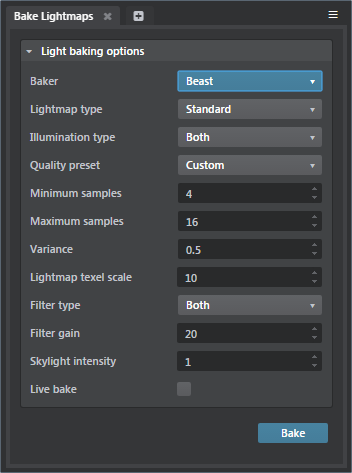
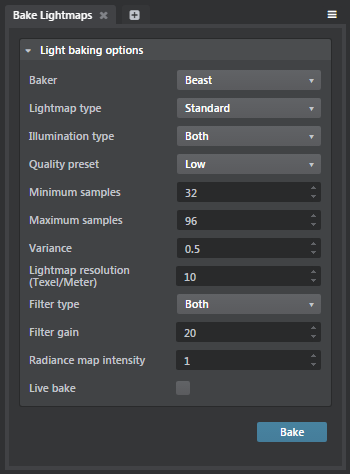
Updated the docs for  the Stingray and  Beast baker options and add new screenshots (GAME-17566)

diff --git a/source/stingray_help/lighting_rendering/lighting/light_baking/bake_with_beast.md b/source/stingray_help/lighting_rendering/lighting/light_baking/bake_with_beast.md
@@ -1,8 +1,10 @@
 # About baking with Beast
 
+![UPDATED](../../../images/updated.png)
+
 Autodesk Beast is a rendering SDK that simulates lighting and global illumination for games. Stingray comes with a simple, ready-to-use integration of the main lightmap baking features of Beast.
 
-> ![](../../../images/icon_CreativeMarket.png) To see some simple demonstrations of the ways you can set up a Stingray level to use Beast, download the 'Beast Examples' project from <a href="http://www.autodesk.com/stingray-creativemarket-examples" target="blank">Creative Market.</a>
+> To see some simple demonstrations of the ways you can set up a Stingray level to use Beast, download the 'Beast Examples' project from the **Online Examples** tab in the ~{ Project Manager }~.
 
 ![Beast example project](../../../images/example_project_beast.jpg)
 
@@ -28,9 +30,9 @@ You can choose what kinds of illumination you want to include in your lightmaps:
 
 -	both direct *and* indirect illumination, combined together in the same texture.
 
-A common approach is to bake only the indirect light, and to let the direct light be applied by the real-time renderer in the game. If you choose this approach, you will probably want to leave the **Baked** option unchecked for each of the lights in your scene, so that they continue to shine direct light and make dynamic shadows at runtime.
+A common approach is to bake only the indirect light, and to let the direct light be applied by the real-time renderer in the game. If you choose this approach, you will probably want to leave the **Baking** option set to "Indirect" for each of the lights in your scene, so that they continue to shine direct light and make dynamic shadows at runtime.
 
-You may, however, want to bake direct illumination in order to get the direct shadows baked into your lightmaps. If you decide to bake the direct illumination, you will need to check the **Baked** option for the lights in your scene. This includes the direct light and shadow in the bake, and avoids counting the direct illumination from the light twice: once as part of the baked lightmap, and once again by the real-time renderer on top of the lightmap.
+You may, however, want to bake direct illumination in order to get the direct shadows baked into your lightmaps. If you decide to bake the direct illumination, you will need to set the **Baking** option to "Direct & Indirect" for the lights in your scene. This includes the direct light and shadow in the bake, and avoids counting the direct illumination from the light twice: once as part of the baked lightmap, and once again by the real-time renderer on top of the lightmap.
 
 ## How does it bake?
 
@@ -54,13 +56,8 @@ You can use the settings in the **Bake Lightmaps** window to control the way Bea
 <dt>Illumination type</dt>
 <dd>Determines what kind of illumination is baked into the lightmaps. See [Standard vs. directional lightmaps] above.</dd>
 
-<dt>Total sample passes</dt>
-<dd>Sets the maximum number of passes the light baker will make.
-
-Increasing this value may improve the quality of the final results, if the number of passes is not high enough to converge on a high-quality result. However, it also makes the full baking session take longer to complete.</dd>
-
 <dt>Quality preset</dt>
-<dd>Select one of these presets to quickly adjust the settings below to produce low, medium or high quality lightmaps. These presets can give you a good starting point ifyou're not sure what values to use for the quality settings below.</dd>
+<dd>Select one of these presets to quickly adjust the settings below to produce low, medium or high quality lightmaps. These presets can give you a good starting point if you're not sure what values to use for the quality settings below.</dd>
 
 <dt>Minimum samples</dt>
 <dd>Beast uses adaptive sampling to determine how many samples it should use for each shaded texel. This setting determines the lowest number of samples that Beast will use for any texel. Increasing this value may increase quality, but may also increase baking time.</dd>
@@ -73,10 +70,10 @@ Increasing this value may improve the quality of the final results, if the numbe
 
 Lowering the value of this setting usually increases the number of samples made per texel, which may increase the quality of the result, but also increases baking time.</dd>
 
-<dt>Lightmap texel scale</dt>
+<dt>Lightmap resolution (Texel/Meter)</dt>
 <dd>Controls the size of the lightmaps produced by the baker.
 
-This value multiplies the texture resolution for each target's lightmap. For example, if a target requires a 32x32 texture when the scale is set to 1, it will require a 64x64 texture when the scale is set to 2, 128x128 when the scale is set to 4, etc.
+This value multiplies the texture resolution for each target's lightmap. For example, if a target requires a 32x32 texture when the resolution is set to 1, it will require a 64x64 texture when the resolution is set to 2, 128x128 when the resolution is set to 4, etc.
 
 Increasing this number will permit the baker to put more detail into each lightmap, which allows room for higher quality, more precise results. However, increasing this value can actually produce noisier results if there are not enough sample passes to achieve that level of detail. Increasing this value also increases the size in memory of each lightmap, and makes each sample pass take longer.</dd>
 
@@ -86,7 +83,7 @@ Increasing this number will permit the baker to put more detail into each lightm
 <dt>Filter gain</dt>
 <dd>Determines the size of the filter used to blur the initial results. Increasing this value produces smoother results, but increases baking time and may wash out some details, like hard shadows from direct lights.</dd>
 
-<dt>Skylight intensity</dt>
+<dt>Radiance map intensity</dt>
 <dd>Determines how much the skydome texture contributes to the baked lighting.</dd>
 
 <dt>Live bake</dt>

diff --git a/source/stingray_help/lighting_rendering/lighting/light_baking/bake_settings.md b/source/stingray_help/lighting_rendering/lighting/light_baking/bake_settings.md
@@ -1,32 +1,34 @@
 # Lightmap baking settings
 
+![UPDATED](../../../images/updated.png)
+
 The main settings that you'll use to control light baking are found in the **Bake Lightmaps** dialog box (**Window > Lighting > Bake Lightmaps**).
 
-There are also a few other settings to be aware of. Note that most of these settings apply both to Beast and to the Stingray baker, even when they specify "Beast" in the UI.
+There are also a few other settings to be aware of. Note that most of these settings apply both to Beast and to the Stingray baker.
 
 -	Properties per unit:
 
-	-	Select a unit. In the ~{ Property Editor }~, under the **Beast** group, you will find an **Enabled** checkbox. This option enables or disables baking for all meshes *and* all lights associated with this unit.
+	-	Select a unit. In the ~{ Property Editor }~, under the **Lightmap unit settings** group, you will find an **Enabled** checkbox. This option enables or disables baking for all meshes *and* all lights associated with this unit.
 
 -	Properties per mesh:
 
 	-	Each mesh that you bake uses its second UV set (*uv1*) to unwrap its baked lightmaps. Depending on how much space is assigned to each part of your mesh in this UV set, the baked light will have higher or lower resolution. See ~{ Unwrap UVs for light baking }~.
 
-	-	Select a unit. In the tree view of the  ~{ Property Editor }~, under the **Beast Settings** node, select a mesh to see its additional bake settings.
+	-	Select a unit. In the tree view of the  ~{ Property Editor }~, under the **Lightmap settings** node, select a mesh to see its additional bake settings.
 
 		![](../../../images/beast_settings_perMesh.png)
 
-		**Bake target**: Enable or disable this option to enable or disable baking a lightmap for this mesh.
+		**Receives**: Enable or disable this option to enable or disable baking a lightmap for this mesh.
 
 		**Contributes**: Determines whether light that bounces off this mesh continues to contribute to lighting other objects in the scene.
 
-		**Texel scale**: Stingray bakes multiple unwrapped objects into the same 1024x1024 texture atlas. Increase this value for more important objects in order to assign them more space in the atlas.
+		**Resolution multiplier**: Stingray bakes multiple unwrapped objects into the same 1024x1024 texture atlas. Increase this value for more important objects in order to assign them more space in the atlas.
 
 -	Properties per light. Select a light. In the tree view of the  ~{ Property Editor }~, you'll find its additional bake settings:
 
-	-	Under the **Light** category, the **Baked** setting determines whether or not the light *only* contributes to the baked lightmaps. When selected, the light will contribute to baked direct and indirect light, but will not contribute to real-time dynamic lighting at all.
+	-	Under the **Light** category, the **Baking** setting determines whether or not the light *only* contributes to the baked lightmaps. When set to "Direct & Indirect", the light will contribute to baked direct and indirect light, but will not contribute to real-time dynamic lighting at all. When set to "Indirect", the light will render in realtime.
 
-	-	Under the **Beast Light Settings** category, the **Indirect Intensity** setting adjusts how strongly the indirect light emitted by this light affects nearby surfaces. Used only by Beast, not by the Stingray baker.
+	-	Under the **Light** category, the **Indirect Intensity** setting adjusts how strongly the indirect light emitted by this light affects nearby surfaces. Used only by Beast, not by the Stingray baker.
 
 -	Global lighting settings in the shading environment. See ~{ Shading environment properties }~.
 

diff --git a/source/stingray_help/lighting_rendering/lighting/light_baking/bake_with_stingray.md b/source/stingray_help/lighting_rendering/lighting/light_baking/bake_with_stingray.md
@@ -1,6 +1,8 @@
 # About baking with the Stingray baker
 
-The Stingray light baker is an experimental new light baking system built in to Stingray.
+![UPDATED](../../../images/updated.png)
+
+The Stingray light baker is the light baking system built in to Stingray.
 
 ## What does it bake?
 
@@ -8,7 +10,7 @@ For each surface, the Stingray baker includes in the lightmap:
 
 -	All *indirect* illumination, which hits the baked surface after bouncing off of one or more other surfaces in the scene. This also includes light coming from emissive textures, and environmental light contributed by the sky texture.
 
--	*Direct* illumination and shadows only from lights that have their **Baked** property enabled.
+-	*Direct* illumination and shadows only from lights that have their **Baking** property set to "Direct & Indirect".
 
 ## How does it bake?
 
@@ -26,10 +28,10 @@ You can use the settings in the **Bake Lightmaps** window to control the way the
 
 <dl>
 
-<dt>Lightmap texel scale</dt>
+<dt>Lightmap resolution (Texel/Meter)</dt>
 <dd>Controls the size of the lightmaps produced by the baker.
 
-This value multiplies the texture resolution for each target's lightmap. For example, if a target requires a 32x32 texture when the scale is set to 1, it will require a 64x64 texture when the scale is set to 2, 128x128 when the scale is set to 4, etc.
+This value multiplies the texture resolution for each target's lightmap. For example, if a target requires a 32x32 texture when the resolution is set to 1, it will require a 64x64 texture when the resolution is set to 2, 128x128 when the resolution is set to 4, etc.
 
 Increasing this number will permit the baker to put more detail into each lightmap, which allows room for higher quality, more precise results. However, increasing this value can actually produce noisier results if there are not enough sample passes to achieve that level of detail. Increasing this value also increases the size in memory of each lightmap, and makes each sample pass take longer.</dd>
 
@@ -38,13 +40,13 @@ Increasing this number will permit the baker to put more detail into each lightm
 
 Increasing this value may improve the quality of the final results, if the number of passes is not high enough to converge on a high-quality result. However, it also makes the full baking session take longer to complete.</dd>
 
-<dt>Skylight intensity</dt>
+<dt>Radiance map intensity</dt>
 <dd>Determines how much the skydome texture contributes to the baked lighting.</dd>
 
-<dt>Indirect scale</dt>
+<dt>Indirect intensity</dt>
 <dd>Increases or decreases the strength of the indirect illumination the Stingray baker applies to the surfaces in your level.</dd>
 
-<dt>Emissive scale</dt>
+<dt>Emissive intensity</dt>
 <dd>Increases or decreases the amount of diffuse light cast out into the scene from surfaces whose materials have emissive color and emissive intensity.</dd>
 
 <dt>Diffuse boost</dt>
@@ -53,6 +55,9 @@ Increasing this value may improve the quality of the final results, if the numbe
 Raising this value causes darker surfaces to become brighter and to bounce more light back out into the scene. This may help you get better results if the materials in your scene are too dark to scatter light effectively.
 
 Note that you may need to set this value very high in order to see the effect.</dd>
+
+<dt>Filter Lightmaps</dt>
+<dd>Applies a filter to reduce the light noise.</dd>
 
 </dl>
 

diff --git a/source/stingray_help/lighting_rendering/lighting/light_baking.md b/source/stingray_help/lighting_rendering/lighting/light_baking.md
@@ -35,7 +35,7 @@ With all the benefits listed above, why not always bake lighting all the time? T
 
 Textures take up a lot of memory at runtime. Baking lightmaps adds more textures that you need to load into the game, and therefore adds significantly to the game's memory footprint.
 
-You may be able to work around this issue by reducing the memory size of your lightmaps selectively for different platforms. You can compress the textures, and discard their largest map map steps. For more information, see ~{ Optimize memory usage }~ and ~{ Working with textures }~.
+You may be able to work around this issue by reducing the memory size of your lightmaps selectively for different platforms. You can compress the textures, and discard their largest mip map steps. For more information, see ~{ Optimize memory usage }~ and ~{ Working with textures }~.
 
 ### Workflow
 
@@ -57,8 +57,8 @@ A typical way to deal with this is to bake only indirect light, and only for obj
 
 With Stingray, you have two different options for baking lightmaps:
 
--	Autodesk Beast, a "middleware" technology for rendering and global illumination that has been production-proven in games with unique visual appeal, like *Mirror's Edge*.
+-	A GPU-accelerated light baker built in to Stingray.
 
--	An experimental, brand-new, GPU-accelerated light baker built in to Stingray.
+-	Autodesk Beast, a "middleware" technology for rendering and global illumination that has been production-proven in games with unique visual appeal, like *Mirror's Edge*.
 
 Although the two systems work in different ways internally, the process for using them in the Stingray Editor is very similar. See ~{ Bake lightmaps }~.

diff --git a/source/stingray_help/lighting_rendering/lighting/light_baking/bake_lightmaps.md b/source/stingray_help/lighting_rendering/lighting/light_baking/bake_lightmaps.md
@@ -1,12 +1,14 @@
 # Bake lightmaps
 
-Whether you want to use Beast or the Stingray baker to generate lightmaps for your level, the general procedure is the same:
+![UPDATED](../../../images/updated.png)
+
+Whether you want to use the Stingray baker or Beast to generate lightmaps for your level, the general procedure is the same:
 
 1.	Prepare the objects and lights in your level for baking.
 
 	All bake targets need to be set up with secondary UV sets, either in their *.fbx* files or generated automatically by Stingray.
 
-	For each light, set the **Baked** option to determine whether or not the light's direct illumination should be included in the lightmap.
+	For each light, set the **Baking** option to determine whether or not the light's direct illumination should be included in the lightmap.
 
 	See ~{ Unwrap UVs for light baking }~ and ~{ Lightmap baking settings }~.
 
@@ -18,7 +20,7 @@ Whether you want to use Beast or the Stingray baker to generate lightmaps for yo
 
 1.	In the **Bake Lightmaps** window, set the baking options you want.
 
-	The key option is the **Baker** setting, which controls whether your lightmaps will be baked by Beast or by the Stingray baker. See ~{ About baking with Beast }~ and ~{ About baking with the Stingray baker }~.
+	The key option is the **Baker** setting, which controls whether your lightmaps will be baked by the Stingray baker or by Beast. See ~{ About baking with the Stingray baker }~  and ~{ About baking with Beast }~.
 
 	> **Note:** Hover over the other options in this dialog box for descriptions of each attribute.
 
